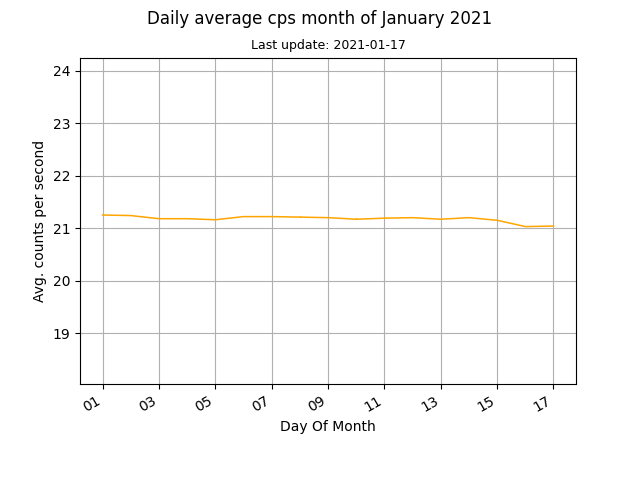
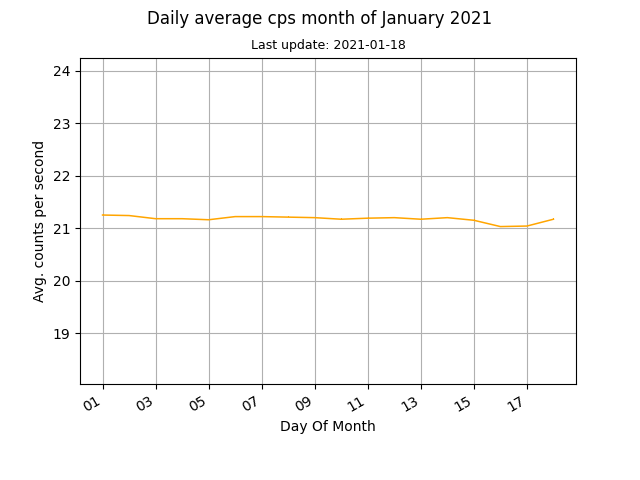
auto data update

diff --git a/docs/index.html b/docs/index.html
@@ -45,8 +45,8 @@
 	
 	<br>
 	
-	<p>Current counts per second (cps): 21.14</p>
-	<p>Last update: 2021-01-17, 23:47</p>
+	<p>Current counts per second (cps): 21.17</p>
+	<p>Last update: 2021-01-18, 00:02</p>
 
 	<p><a href="images/monthly.png"><img src="images/monthly.png" alt="Mothly avg cps data"></a><a href="images/daily.png"><img src="images/daily.png" alt="Daily avg cps data"></a></p>
 	
